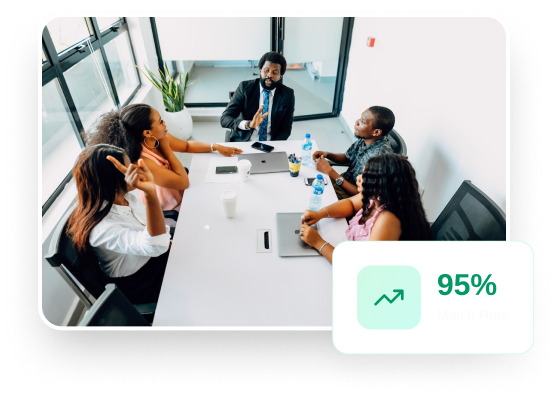
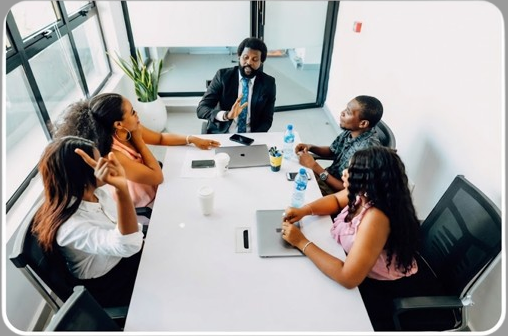
create signup and login pages frontend

diff --git a/smarthire-f/src/app/login/page.js b/smarthire-f/src/app/login/page.js
@@ -1,0 +1,147 @@
+'use client';
+
+import { useState } from 'react';
+import Link from 'next/link';
+import Image from 'next/image';
+import { useRouter } from 'next/navigation';
+import Header from '@/components/layout/Header';
+import '../styles/custom.css';
+
+export default function LoginPage() {
+  const router = useRouter();
+  const [formData, setFormData] = useState({
+    email: '',
+    password: '',
+  });
+  const [loading, setLoading] = useState(false);
+  const [error, setError] = useState('');
+
+  const handleChange = (e) => {
+    const { name, value } = e.target;
+    setFormData((prev) => ({
+      ...prev,
+      [name]: value,
+    }));
+  };
+
+  const handleSubmit = async (e) => {
+    e.preventDefault();
+    setError('');
+    setLoading(true);
+
+    try {
+      // Add your login API call here
+      console.log('Login attempt:', formData);
+      // Example: const response = await fetch('/api/login', {
+      //   method: 'POST',
+      //   headers: { 'Content-Type': 'application/json' },
+      //   body: JSON.stringify(formData),
+      // });
+      
+      // Temporary success - replace with actual API call
+      router.push('/jobs');
+    } catch (err) {
+      setError('Login failed. Please try again.');
+      console.error('Login error:', err);
+    } finally {
+      setLoading(false);
+    }
+  };
+
+  return (
+    <>
+      <Header />
+      <div className="min-h-screen bg-gradient-to-br from-blue-50 to-green-50 flex items-center justify-center p-4">
+      <div className="w-full max-w-md">
+        {/* Back to home link */}
+        <Link href="/" className="text-sm text-gray-600 hover:text-gray-900 mb-8 inline-block">
+          ← Back to home
+        </Link>
+
+        {/* Login Card */}
+        <div className="bg-white rounded-lg shadow-lg p-8">
+          {/* Logo */}
+          <div className="text-center mb-8">
+            <Image
+              src="/images/logo.png"
+              alt="SmartHire Logo"
+              width={150}
+              height={60}
+              className="mx-auto"
+            />
+          </div>
+
+          {/* Heading */}
+          <h1 className="text-3xl font-bold text-gray-900 text-center mb-2">
+            Welcome Back
+          </h1>
+          <p className="text-gray-600 text-center mb-8">
+            Sign in to continue your journey
+          </p>
+
+          {/* Error Message */}
+          {error && (
+            <div className="mb-6 p-3 bg-red-100 border border-red-400 text-red-700 rounded">
+              {error}
+            </div>
+          )}
+
+          {/* Login Form */}
+          <form onSubmit={handleSubmit} className="space-y-6">
+            {/* Email Field */}
+            <div>
+              <label htmlFor="email" className="block text-sm font-medium text-gray-700 mb-2">
+                Email Address
+              </label>
+              <input
+                type="email"
+                id="email"
+                name="email"
+                placeholder="you@example.com"
+                value={formData.email}
+                onChange={handleChange}
+                required
+                className="w-full px-4 py-2 border border-gray-300 rounded-lg focus:outline-none focus:ring-2 focus:ring-emerald-600 focus:border-transparent"
+              />
+            </div>
+
+            {/* Password Field */}
+            <div>
+              <label htmlFor="password" className="block text-sm font-medium text-gray-700 mb-2">
+                Password
+              </label>
+              <input
+                type="password"
+                id="password"
+                name="password"
+                placeholder="••••••••"
+                value={formData.password}
+                onChange={handleChange}
+                required
+                className="w-full px-4 py-2 border border-gray-300 rounded-lg focus:outline-none focus:ring-2 focus:ring-emerald-600 focus:border-transparent"
+              />
+            </div>
+
+            {/* Sign In Button */}
+            <button
+              type="submit"
+              disabled={loading}
+              className="w-full bg-emerald-600 hover:bg-emerald-700 text-white font-semibold py-3 rounded-lg transition duration-200 disabled:opacity-50 disabled:cursor-not-allowed"
+            >
+              {loading ? 'Signing In...' : 'Sign In'}
+            </button>
+          </form>
+
+          {/* Sign Up Link */}
+          <p className="text-center text-gray-600 mt-6">
+            Don't have an account?
+            <Link href="/signup" className="text-emerald-600 hover:text-emerald-700 font-semibold ml-1">
+              Sign Up
+            </Link>
+          </p>
+        </div>
+      </div>
+      </div>
+    </>
+  );
+}

diff --git a/smarthire-f/src/app/signup/page.js b/smarthire-f/src/app/signup/page.js
@@ -1,0 +1,140 @@
+'use client';
+
+import { useState } from 'react';
+import Link from 'next/link';
+import Image from 'next/image';
+import Header from '@/components/layout/Header';
+
+export default function SignUp() {
+	const [formData, setFormData] = useState({
+		fullName: '',
+		email: '',
+		password: '',
+	});
+
+	const [showPassword, setShowPassword] = useState(false);
+
+	const handleChange = (e) => {
+		const { name, value } = e.target;
+		setFormData((prev) => ({
+			...prev,
+			[name]: value,
+		}));
+	};
+
+	const handleSubmit = (e) => {
+		e.preventDefault();
+		// Handle signup logic here
+		console.log('Signup submitted:', formData);
+	};
+
+	return (
+		<>
+			<Header />
+			<div className="min-h-screen bg-gradient-to-b from-emerald-50 to-white flex flex-col">
+			
+
+				{/* Main Content */}
+				<main className="flex-1 flex items-center justify-center py-12 px-4">
+				<div className="w-full max-w-md bg-white rounded-2xl shadow-lg p-8 md:p-12">
+					{/* Logo */}
+					<div className="flex justify-center mb-8">
+						<Image 
+							src="/images/logo.png" 
+							alt="SmartHire Logo" 
+							width={50}
+							height={50}
+						/>
+					</div>
+					{/* Heading */}
+					<h1 className="text-3xl font-bold text-gray-900 text-center mb-2">
+						Join SmartHire
+					</h1>
+					<p className="text-gray-600 text-center mb-8">
+						Create your account to get started
+					</p>
+
+					{/* Form */}
+					<form onSubmit={handleSubmit} className="space-y-6">
+						{/* Full Name */}
+						<div>
+							<label htmlFor="fullName" className="block text-sm font-medium text-gray-700 mb-2">
+								Full Name
+							</label>
+							<input
+								type="text"
+								id="fullName"
+								name="fullName"
+								value={formData.fullName}
+								onChange={handleChange}
+								placeholder="John Doe"
+								className="w-full px-4 py-2 border border-gray-300 rounded-lg focus:ring-2 focus:ring-emerald-600 focus:border-transparent outline-none transition"
+								required
+							/>
+						</div>
+
+						{/* Email Address */}
+						<div>
+							<label htmlFor="email" className="block text-sm font-medium text-gray-700 mb-2">
+								Email Address
+							</label>
+							<input
+								type="email"
+								id="email"
+								name="email"
+								value={formData.email}
+								onChange={handleChange}
+								placeholder="you@example.com"
+								className="w-full px-4 py-2 border border-gray-300 rounded-lg focus:ring-2 focus:ring-emerald-600 focus:border-transparent outline-none transition"
+								required
+							/>
+						</div>
+
+						{/* Password */}
+						<div>
+							<label htmlFor="password" className="block text-sm font-medium text-gray-700 mb-2">
+								Password <span className="text-red-500">*</span>
+							</label>
+							<div className="relative">
+								<input
+									type={showPassword ? 'text' : 'password'}
+									id="password"
+									name="password"
+									value={formData.password}
+									onChange={handleChange}
+									placeholder="••••••••"
+									className="w-full px-4 py-2 border border-gray-300 rounded-lg focus:ring-2 focus:ring-emerald-600 focus:border-transparent outline-none transition"
+									required
+								/>
+								<button
+									type="button"
+									onClick={() => setShowPassword(!showPassword)}
+									className="absolute right-3 top-1/2 -translate-y-1/2 text-gray-500 hover:text-gray-700"
+								>
+									{showPassword ? '👁' : '👁🗨'}
+								</button>
+							</div>
+						</div>
+
+						{/* Create Account Button */}
+						<button
+							type="submit"
+							className="w-full bg-emerald-600 text-white font-semibold py-3 rounded-lg hover:bg-emerald-700 transition duration-300 mt-8"
+						>
+							Create Account
+						</button>
+					</form>
+
+					{/* Sign In Link */}
+					<p className="text-center text-gray-600 mt-6">
+						Already have an account?{' '}
+						<Link href="/login" className="text-emerald-600 hover:text-emerald-700 font-semibold">
+							Sign In
+						</Link>
+					</p>
+				</div>
+			</main>
+		</div>
+		</>
+	);
+}
